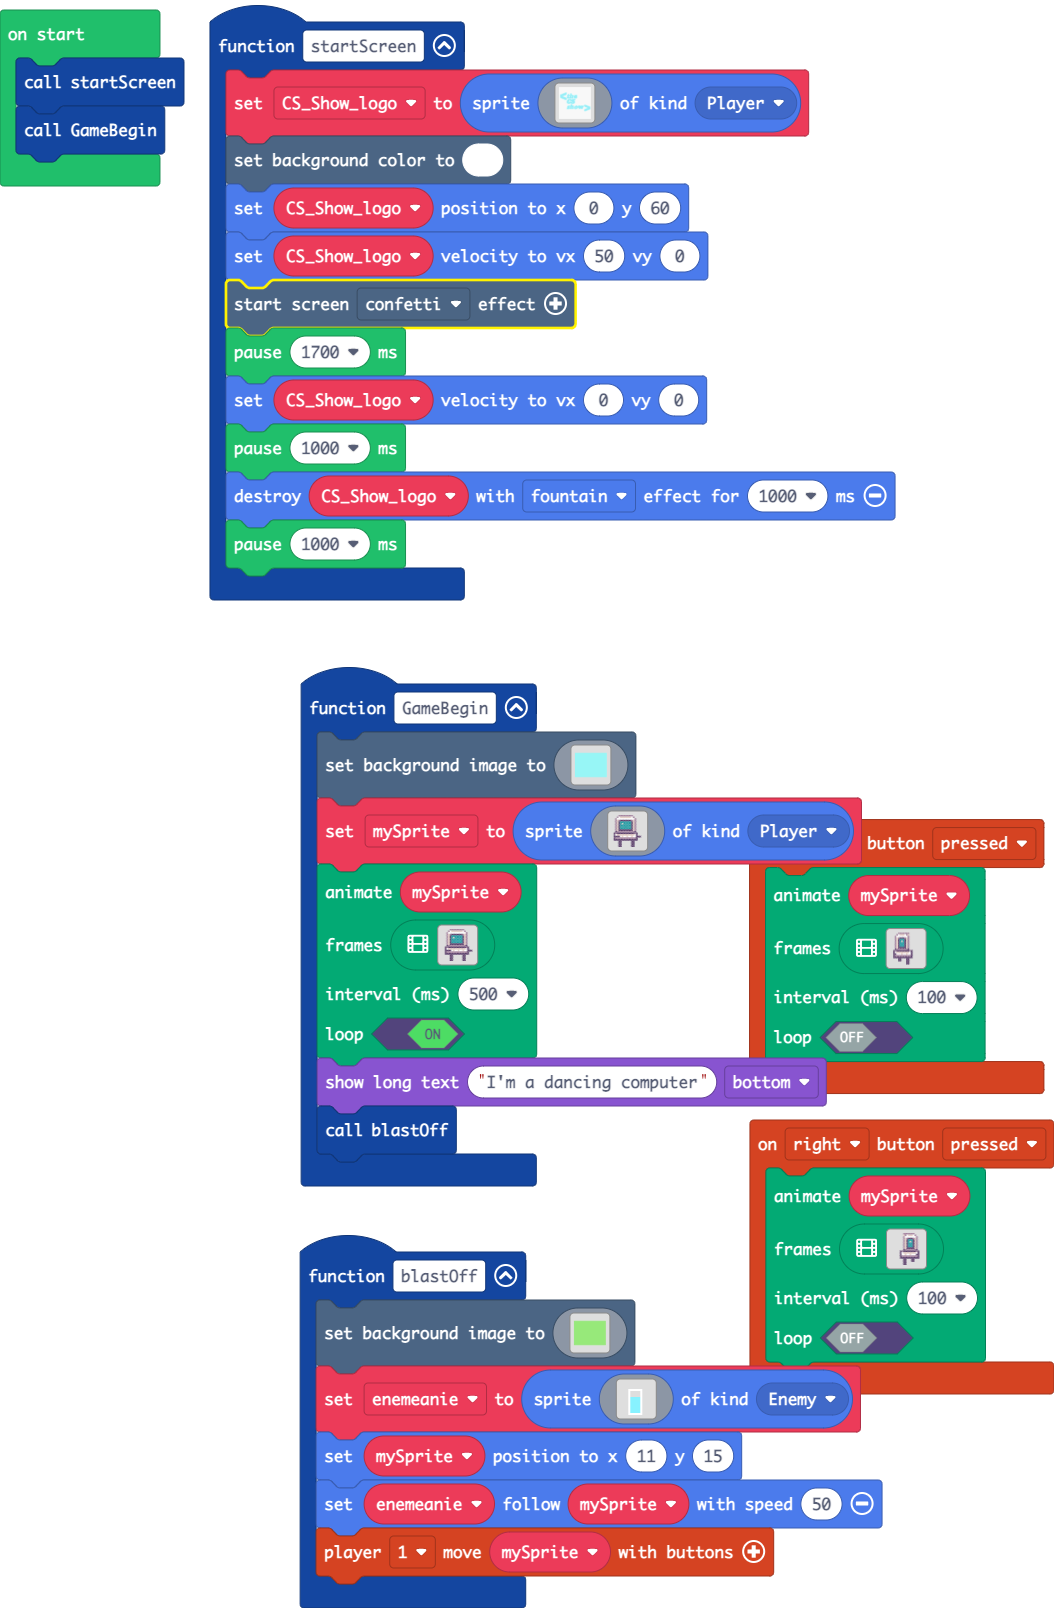
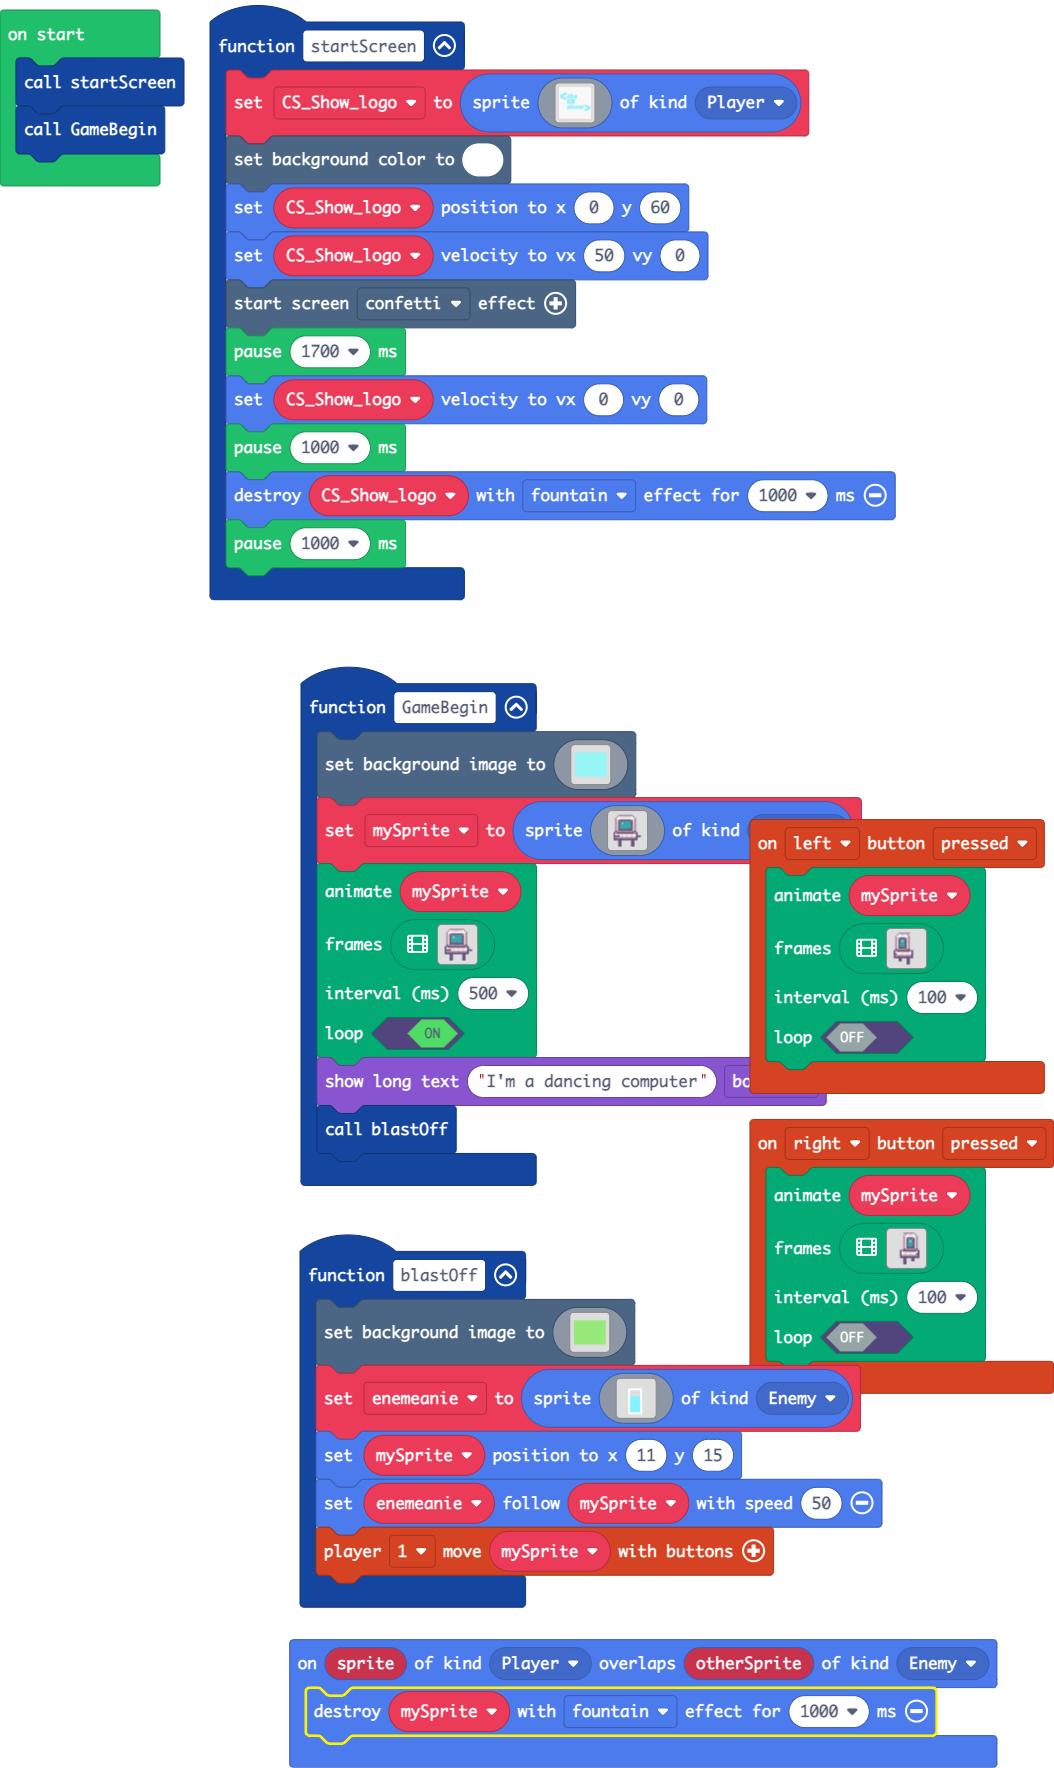
Update main.blocks, main.ts

diff --git a/main.ts b/main.ts
@@ -457,6 +457,9 @@ function GameBegin () {
     game.showLongText("I'm a dancing computer", DialogLayout.Bottom)
     blastOff()
 }
+sprites.onOverlap(SpriteKind.Player, SpriteKind.Enemy, function (sprite, otherSprite) {
+    mySprite.destroy(effects.fountain, 1000)
+})
 let enemeanie: Sprite = null
 let CS_Show_logo: Sprite = null
 let mySprite: Sprite = null
